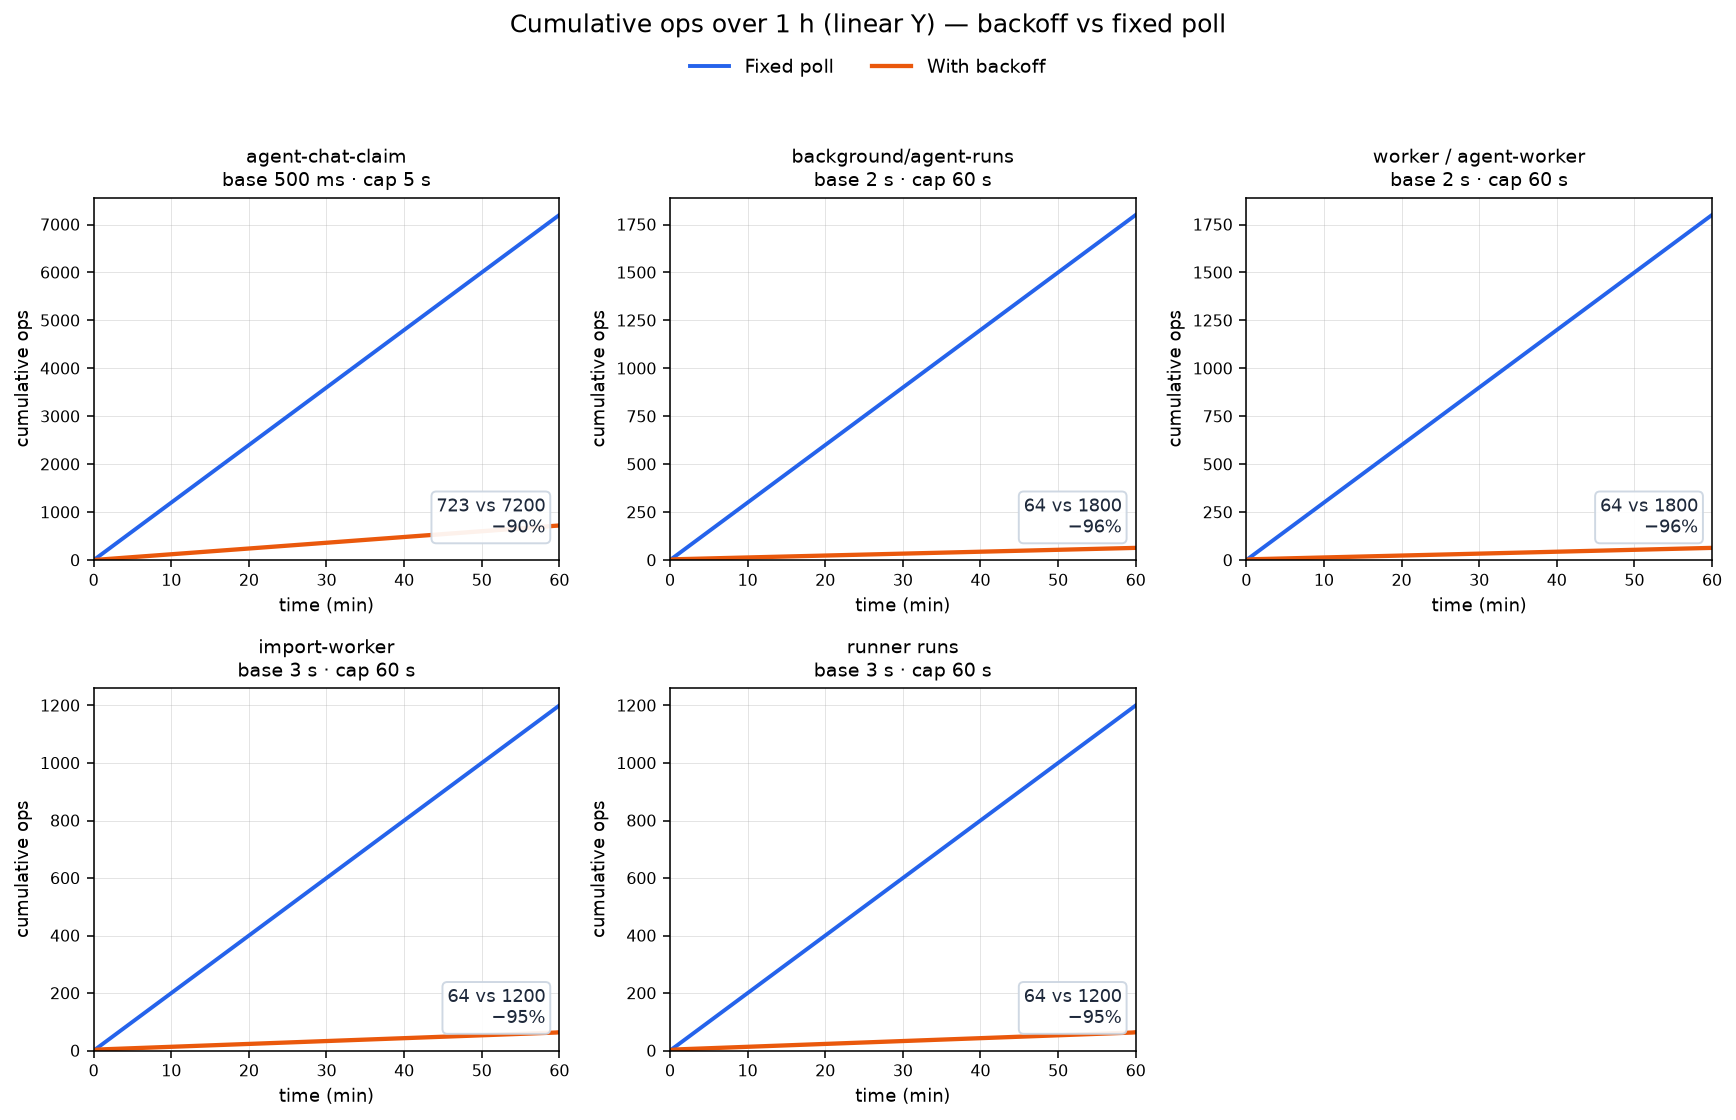
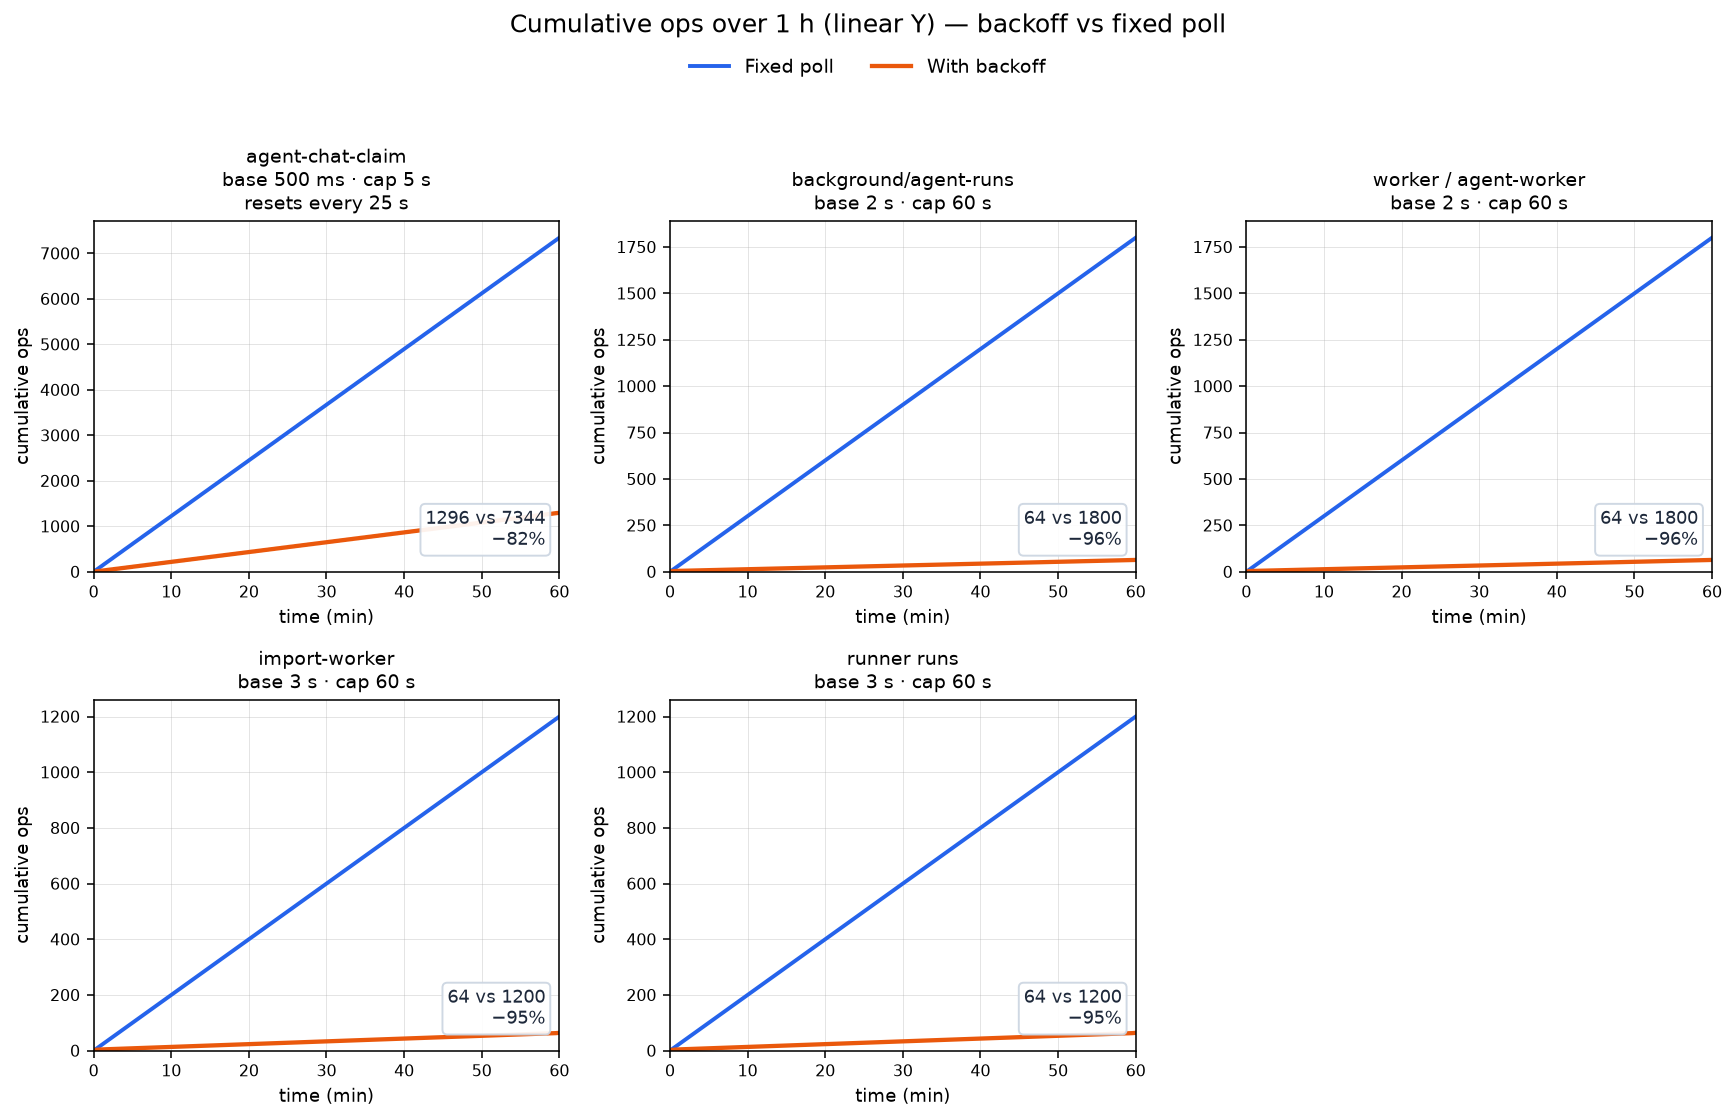
docs: count chat idle polls inside each claim wait
The chat streak resets when a claim returns, so a one-hour series that stays
at the 5s cap overstates the saving. The chart now restarts every 25s.

diff --git a/docs/dev/plot-idle-poll.py b/docs/dev/plot-idle-poll.py
@@ -33,13 +33,17 @@ except ImportError as err:
         "  .venv-plot/bin/python docs/dev/plot-idle-poll.py"
     ) from err
 
-# Keep in sync with the sources listed in the module docstring.
-LOOPS: list[tuple[str, int, int]] = [
-    ("agent-chat-claim\nbase 500 ms · cap 5 s", 500, 5_000),
-    ("background/agent-runs\nbase 2 s · cap 60 s", 2_000, 60_000),
-    ("worker / agent-worker\nbase 2 s · cap 60 s", 2_000, 60_000),
-    ("import-worker\nbase 3 s · cap 60 s", 3_000, 60_000),
-    ("runner runs\nbase 3 s · cap 60 s", 3_000, 60_000),
+# title, base ms, cap ms, claim window ms.
+# A window resets the empty streak the way claimNextMessage does: one HTTP claim
+# waits at most AGENT_CHAT_CLAIM_WAIT_MS (25s) and the next claim starts again at
+# the base. The other loops keep their streak across ticks, so their window is 0.
+CHAT_CLAIM_WAIT_MS = 25_000
+LOOPS: list[tuple[str, int, int, int]] = [
+    ("agent-chat-claim\nbase 500 ms · cap 5 s\nresets every 25 s", 500, 5_000, CHAT_CLAIM_WAIT_MS),
+    ("background/agent-runs\nbase 2 s · cap 60 s", 2_000, 60_000, 0),
+    ("worker / agent-worker\nbase 2 s · cap 60 s", 2_000, 60_000, 0),
+    ("import-worker\nbase 3 s · cap 60 s", 3_000, 60_000, 0),
+    ("runner runs\nbase 3 s · cap 60 s", 3_000, 60_000, 0),
 ]
 
 REPO_ROOT = Path(__file__).resolve().parents[2]
@@ -54,7 +58,12 @@ def next_idle_poll_ms(empty_streak: int, base_ms: int, cap_ms: int) -> int:
     return min(cap, base * 2**exp)
 
 
-def simulate(base_ms: int, cap_ms: int, horizon_ms: int) -> tuple[list[int], list[int], list[int], list[int], int, int]:
+def simulate(
+    base_ms: int, cap_ms: int, horizon_ms: int, window_ms: int = 0
+) -> tuple[list[int], list[int], list[int], list[int], int, int]:
+    if window_ms > 0:
+        return simulate_claims(base_ms, cap_ms, window_ms, horizon_ms)
+
     back_t: list[int] = [0]
     back_n: list[int] = [0]
     t = streak = 0
@@ -78,6 +87,47 @@ def simulate(base_ms: int, cap_ms: int, horizon_ms: int) -> tuple[list[int], lis
     return back_t, back_n, flat_t, flat_n, streak, flat_count
 
 
+def looks_in_claim(base_ms: int, cap_ms: int, window_ms: int) -> list[int]:
+    """Database look times inside one claim, matching claimNextMessage."""
+    now = streak = 0
+    times = [0]
+    while now < window_ms:
+        delay = next_idle_poll_ms(streak, base_ms, cap_ms)
+        now += min(delay, window_ms - now)
+        streak += 1
+        times.append(now)
+    return times
+
+
+def simulate_claims(
+    base_ms: int, cap_ms: int, window_ms: int, horizon_ms: int
+) -> tuple[list[int], list[int], list[int], list[int], int, int]:
+    """Back-to-back empty claims. Each claim resets the streak; fixed poll uses the base as its cap."""
+    back_steps = looks_in_claim(base_ms, cap_ms, window_ms)
+    flat_steps = looks_in_claim(base_ms, base_ms, window_ms)
+
+    def repeat(steps: list[int]) -> tuple[list[int], list[int], int]:
+        # Each claim includes the look at 0 and the look at the deadline. Back-to-back
+        # claims therefore count both, which is what claimNextMessage does.
+        times = [0]
+        counts = [0]
+        t = n = 0
+        while t < horizon_ms:
+            span = min(window_ms, horizon_ms - t)
+            for step in steps:
+                if step > span:
+                    break
+                n += 1
+                times.append(t + step)
+                counts.append(n)
+            t += span
+        return times, counts, n
+
+    back_t, back_n, end_b = repeat(back_steps)
+    flat_t, flat_n, end_f = repeat(flat_steps)
+    return back_t, back_n, flat_t, flat_n, end_b, end_f
+
+
 def plot(out_dir: Path, horizon_ms: int, log_y: bool) -> Path:
     fig, axes = plt.subplots(2, 3, figsize=(12.5, 7.8), dpi=140)
     axes_flat = axes.flatten()
@@ -85,8 +135,8 @@ def plot(out_dir: Path, horizon_ms: int, log_y: bool) -> Path:
         ax.set_visible(False)
 
     rows: list[tuple[str, int, int, int]] = []
-    for ax, (title, base, cap) in zip(axes_flat, LOOPS):
-        bt, bn, ft, fn, end_b, end_f = simulate(base, cap, horizon_ms)
+    for ax, (title, base, cap, window_ms) in zip(axes_flat, LOOPS):
+        bt, bn, ft, fn, end_b, end_f = simulate(base, cap, horizon_ms, window_ms)
         cut = round((1 - end_b / end_f) * 100)
         rows.append((title.split("\n", 1)[0], end_b, end_f, cut))
         ax.plot([t / 60_000 for t in ft], fn, color="#2563eb", lw=2.0, label="Fixed poll")

diff --git a/docs/idle-poll/README.md b/docs/idle-poll/README.md
@@ -35,13 +35,17 @@ Blue is the old fixed interval; orange is backoff.
 
 | Loop | Ops with backoff | Ops fixed | Reduction |
 | ---- | ---------------: | --------: | --------: |
-| agent-chat-claim | 723 | 7 200 | −90 % |
+| agent-chat-claim | 1 296 | 7 344 | −82 % |
 | background/agent-runs | 64 | 1 800 | −96 % |
 | worker / agent-worker | 64 | 1 800 | −96 % |
 | import-worker | 64 | 1 200 | −95 % |
 | runner runs | 64 | 1 200 | −95 % |
 
-Quiet-hour floor only; busy periods reset to the base.
+Quiet-hour floor only; busy periods reset to the base. Chat is counted inside each
+25 s claim (`AGENT_CHAT_CLAIM_WAIT_MS`): the streak starts again on the next claim,
+so the 5 s cap is not held for the whole hour. The fixed column for chat is a look
+every 500 ms inside that same window. These are simulated counts, with the next
+claim starting as soon as the previous one ends.
 
 ## Tuning
 

diff --git a/docs/dev/idle-poll.md b/docs/dev/idle-poll.md
@@ -91,6 +91,9 @@ tested). No startup failure for that pair.
 
 [`docs/idle-poll/`](../idle-poll/) is the install/tuning guide (defaults, env,
 embedded charts). The PNGs there are produced by `docs/dev/plot-idle-poll.py`.
+The chat series resets the empty streak every `AGENT_CHAT_CLAIM_WAIT_MS` (25 s),
+because `claimNextMessage` starts `emptyStreak` at 0 on each claim. The other
+loops keep their streak across ticks.
 
 ### Regenerating the charts
 
